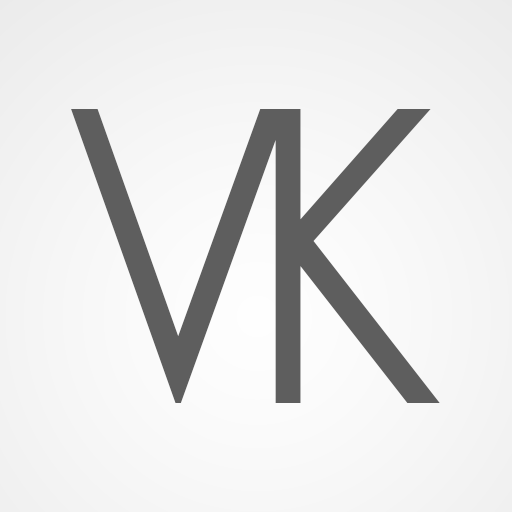
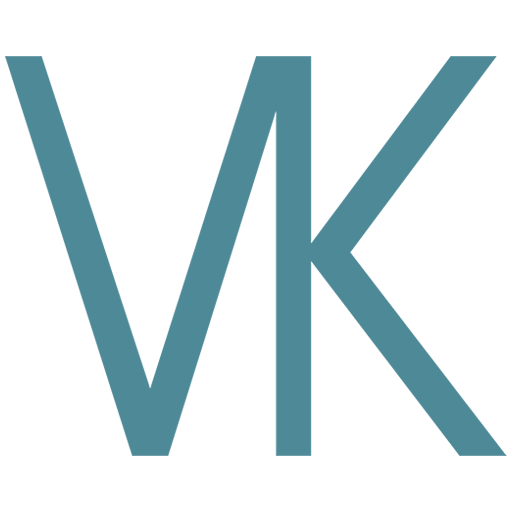
Fixes
Backgroung change, logo change, removed site url

Changed region(s): [[0.0, 0.0938, 1.0, 0.9062]]

diff --git a/www/core/components/courses/templates/courselistprogress.html b/www/core/components/courses/templates/courselistprogress.html
@@ -18,8 +18,8 @@
         </div>
         <h2><mm-format-text watch="true">{{course.fullname}}</mm-format-text></h2>
         <mm-progress-bar ng-if="!roundProgress && course.progress !== false" progress="course.progress"></mm-progress-bar>
-        <i ng-if="showActions && loaded" class="icon ion-android-more-vertical mm-animate-show-hide" ng-click="showCourseActions($event)"></i>
-        <ion-spinner ng-if="!loaded" class="mm-animate-show-hide"></ion-spinner>
+        <i ng-if="showActions && loaded" class="icon ion-android-more-vertical mm-animate-show-hide" ng-click="showCourseActions($event)" style="display:none;"></i>
+        <ion-spinner ng-if="!loaded" class="mm-animate-show-hide" style="display:none;"></ion-spinner>
     </a>
     <div class="item item-text-wrap item-borderless" ng-show="course.summary" ng-if="showSummary">
         <p>

diff --git a/www/core/components/login/templates/credentials.html b/www/core/components/login/templates/credentials.html
@@ -7,11 +7,7 @@
                     <img ng-if="logourl" ng-src="{{logourl}}" class="avatar-full" mm-external-content role="presentation">
                     <img ng-if="!logourl" ng-src="img/moodle.png" class="avatar-full moodle-logo" role="presentation">
 
-                    <!-- If no sitename show big siteurl. -->
-                    <p ng-if="!sitename" class="item-heading padding">{{siteurl}}</p>
-                    <!-- If sitename, show big sitename and small siteurl. -->
-                    <p ng-if="sitename" class="item-heading padding">{{sitename}}</p>
-                    <p ng-if="sitename">{{siteurl}}</p>
+                    
                 </div>
                 <form>
                     <ion-input class="list item item-input" ng-if="siteChecked && !isBrowserSSO">

diff --git a/www/addons/competency/services/handlers.js b/www/addons/competency/services/handlers.js
@@ -282,7 +282,7 @@ angular.module('mm.addons.competency')
                         });
                     };
                 } else {
-                    $scope.icon = 'ion-map';
+                    /*$scope.icon = 'ion-map';
                     $scope.title = 'mma.competency.learningplans';
                     $scope.action = function($event) {
                         $event.preventDefault();
@@ -290,7 +290,7 @@ angular.module('mm.addons.competency')
                         $state.go('site.learningplans', {
                             userid: user.id
                         });
-                    };
+                    };*/
                 }
             };
 

diff --git a/www/core/components/login/templates/sites.html b/www/core/components/login/templates/sites.html
@@ -10,7 +10,7 @@
           <img class="avatar" ng-src="{{site.avatar}}" mm-external-content siteid="site.id" alt="{{ 'mm.core.pictureof' | translate:{$a: site.fullname} }}" role="presentation">
           <h2>{{site.fullname}}</h2>
           <p><mm-format-text clean="true" watch="true">{{site.sitename}}</mm-format-text></p>
-          <p>{{site.siteurl}}</p>
+          <p style="display:none;">{{site.siteurl}}</p>
           <span ng-show="!data.showDelete && site.badge" class="badge badge-positive">{{site.badge}}</span>
       </ion-item>
     </ion-list>

diff --git a/scss/app.scss b/scss/app.scss
@@ -13,7 +13,7 @@ $gray-light:      #eeeeee; // Background.
 $gray-lighter:    #f5f5f5;
 $white:           #ffffff; // Background, reversed text.
 
-$blue:            #0064d2; // Link, background.
+$blue:            #313540; // Link, background.
 $blue-light:      mix($blue, white, 20%); // Background.
 $blue-dark:       darken($blue, 10%);
 

diff --git a/www/core/scss/styles.scss b/www/core/scss/styles.scss
@@ -1653,4 +1653,9 @@ li.mm-sidemenu-handler.mma-competency-handler, li.mm-sidemenu-handler.mma-calend
 .video-container iframe {
     position: inherit!important;
 	height: auto!important;
+	height: 280px!important;
+	width: 500px!important;
+}
+.video-container {
+    text-align: center;
 }
